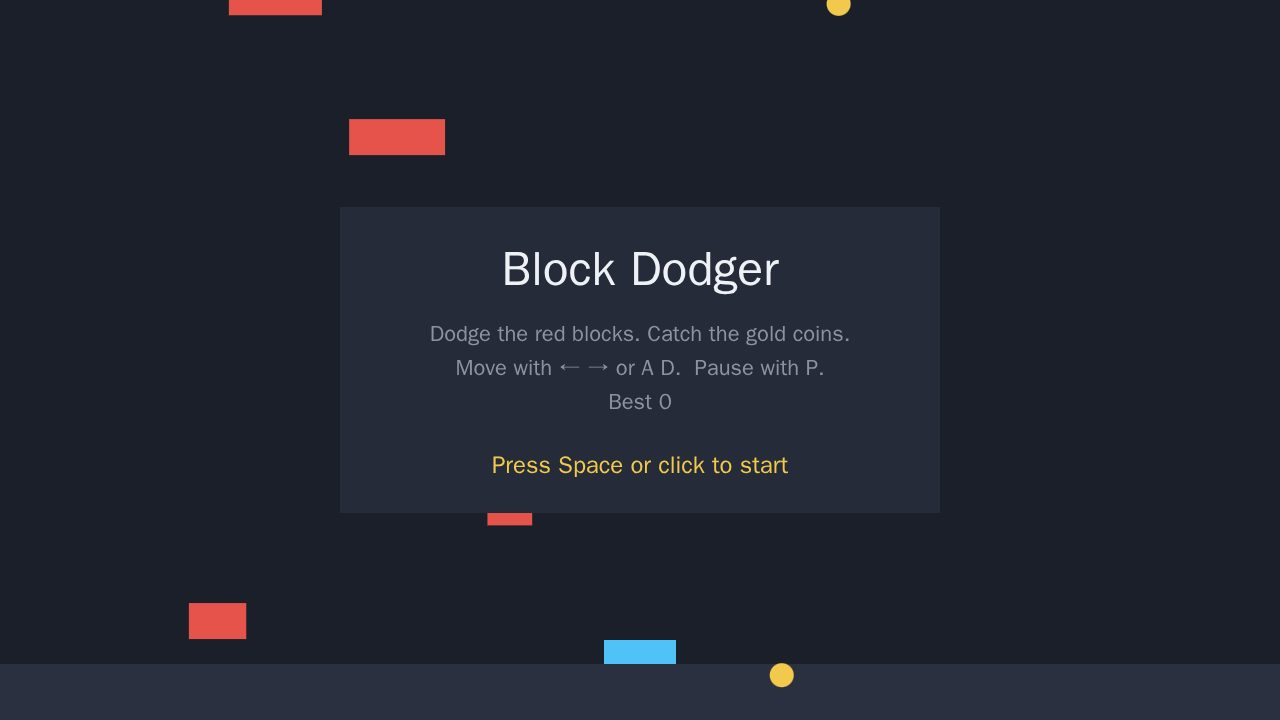
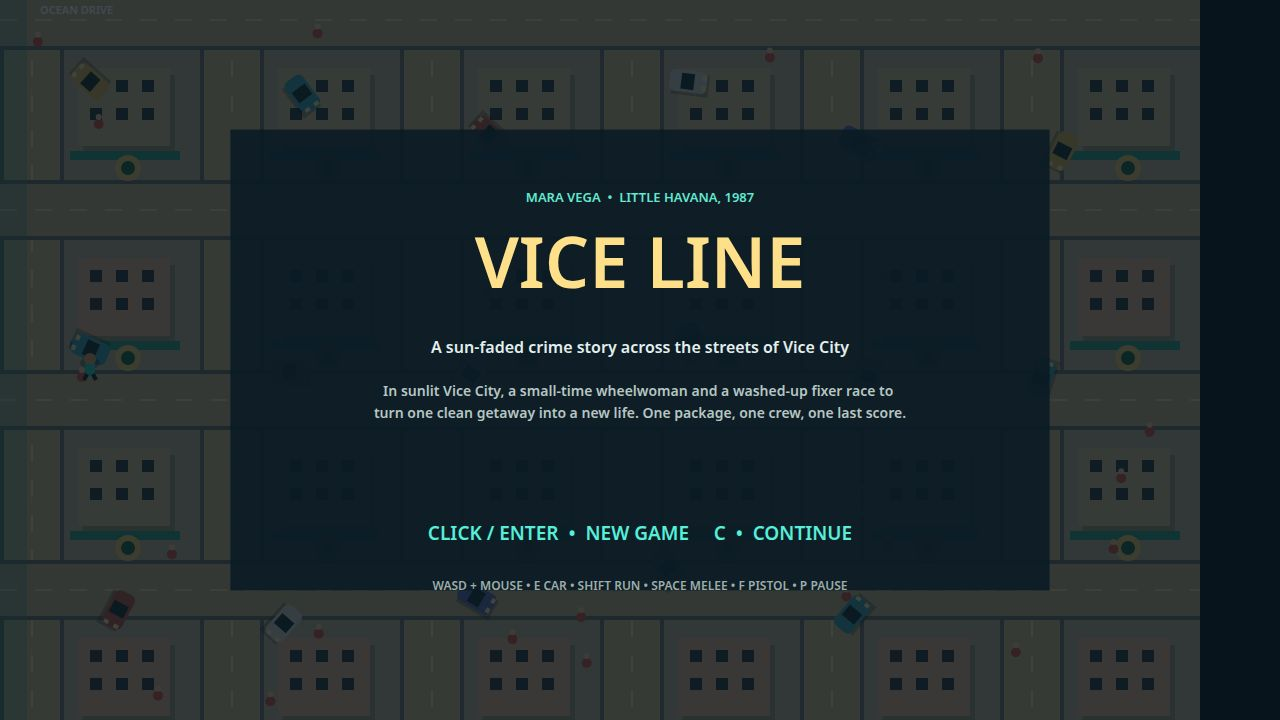
add staged gameplay screenshots

diff --git a/README.md b/README.md
@@ -1,0 +1,9 @@
+# VICE LINE
+
+[![make.fun · gta6-01](https://make.fun/badge/gta6-01.svg)](https://make.fun/bounty/gta6-01?utm_source=github&utm_medium=readme&utm_campaign=gta6-01)
+
+An original, offline open-world arcade crime story set in sunlit Little Havana. Explore on foot or take a car, run jobs, and evade the Vice City police.
+
+**Controls:** WASD move/drive, mouse aim, E enter/exit or steal a car, Shift run, Space melee, F fire, P/Esc pause, C continue a saved game.
+
+Run `node serve.ts` and open http://localhost:8080. The game is static; its small Canvas engine and all game code are local.
